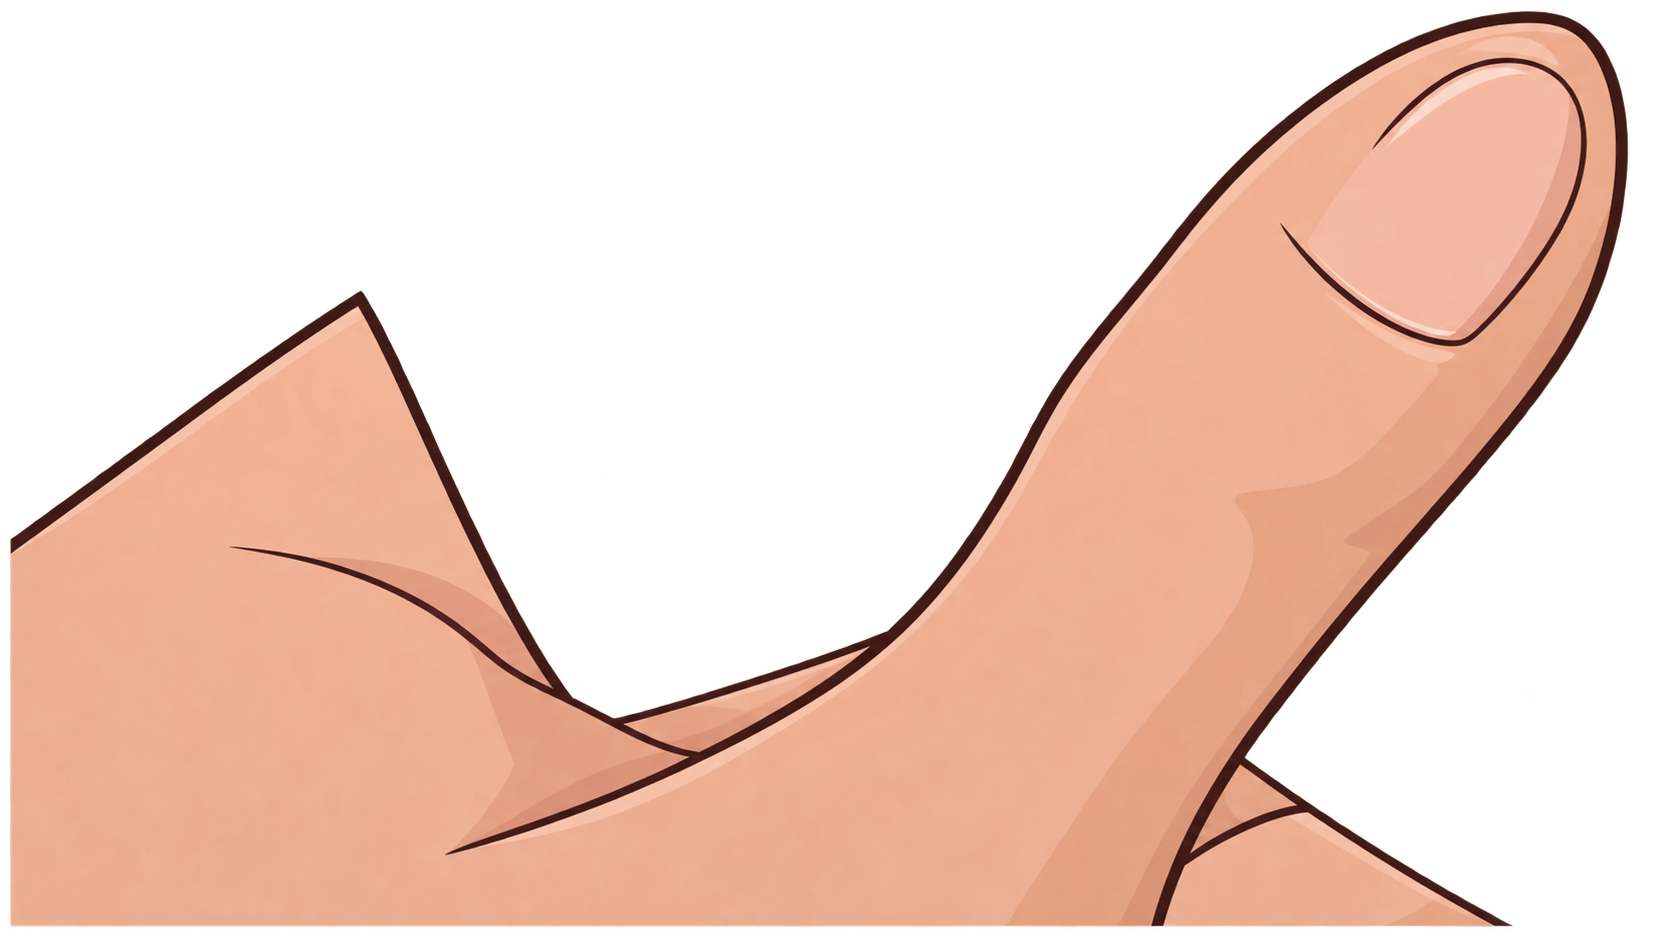
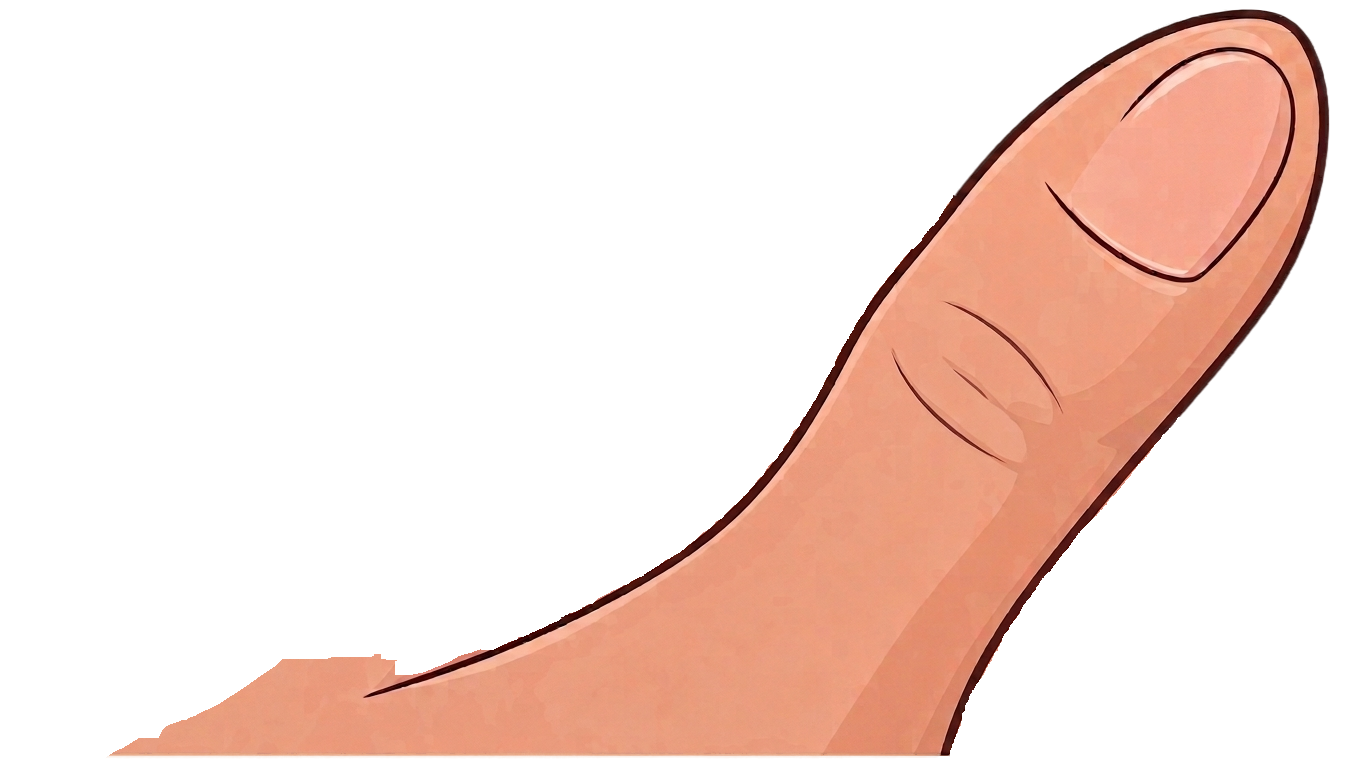
fixed left hand layers

diff --git a/src/components/game/PlayerHand.jsx b/src/components/game/PlayerHand.jsx
@@ -2,6 +2,7 @@ import { useState } from "react";
 import PlayingCard from "./PlayingCard";
 import ConfirmPlay from "./ConfirmPlay";
 import handLeft from "../../assets/images/hand-left.png";
+import handLeft2 from "../../assets/images/hand-left2.png";
 import handRight from "../../assets/images/hand-right.png";
 import "./PlayerHand.css";
 
@@ -41,6 +42,13 @@ export default function PlayerHand({ cards = [], onConfirmPlay }) {
     return (
         <div className="player-hand">
             <div className="player-hand__fan-wrap">
+                {/* ── Back hand image (behind cards) ─────────────────── */}
+                <img
+                    src={handLeft2}
+                    alt=""
+                    aria-hidden="true"
+                    className="player-hand__hand-image player-hand__hand-image--left-back"
+                />
 
                 {/* ── Cards behind the hand image ──────────────────────── */}
                 {fanCards.map((card, i) => {

diff --git a/src/components/game/PlayerHand.css b/src/components/game/PlayerHand.css
@@ -102,6 +102,15 @@
     z-index: 20;
 }
 
+.player-hand__hand-image--left-back {
+    position: absolute;
+    inset: 0;
+    width: 100%;
+    height: 100%;
+    object-fit: fill;
+    z-index: 1;
+}
+
 .player-hand__selected-wrap {
     position: absolute;
     bottom: 40px;
